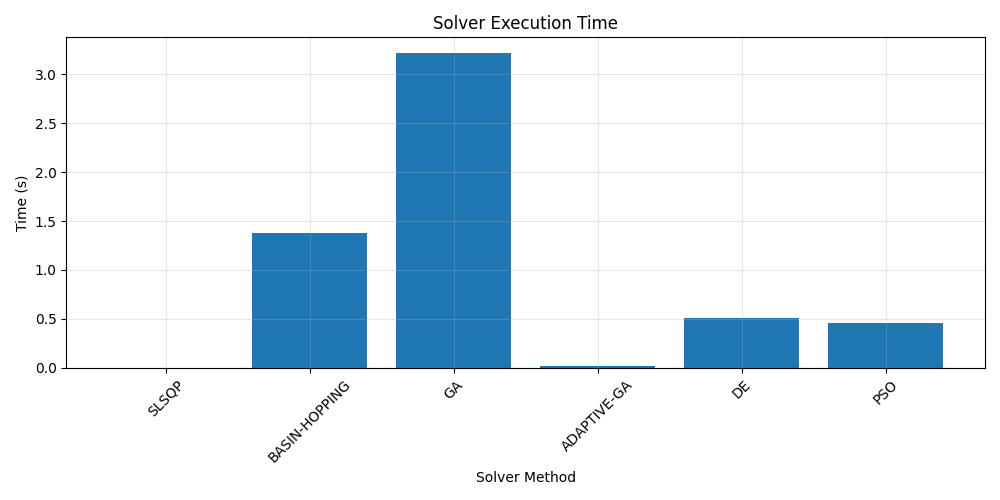
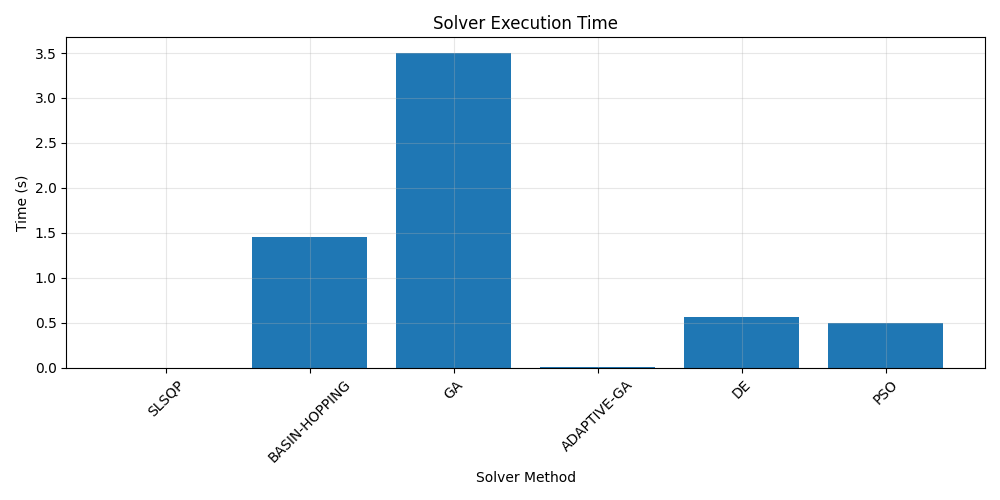
added csv output back in

diff --git a/Stage_Opt/src/reporting/latex.py b/Stage_Opt/src/reporting/latex.py
@@ -1,8 +1,69 @@
 """LaTeX report generation."""
 import os
+import csv
 import json
 from datetime import datetime
 from ..utils.config import OUTPUT_DIR, logger
+
+def write_results_to_csv(results, stages, output_dir=OUTPUT_DIR):
+    """Write optimization results to CSV files."""
+    summary_path = None
+    detailed_path = None
+    
+    try:
+        # Ensure output directory exists
+        os.makedirs(output_dir, exist_ok=True)
+        
+        # Write summary results
+        try:
+            summary_path = os.path.join(output_dir, "optimization_summary.csv")
+            with open(summary_path, 'w', newline='') as f:
+                writer = csv.writer(f)
+                writer.writerow(['Method', 'Payload Fraction', 'Error', 'Time (s)'])
+                for method, result in results.items():
+                    if not all(k in result for k in ['payload_fraction', 'error', 'execution_time']):
+                        logger.warning(f"Skipping incomplete result for {method}")
+                        continue
+                    writer.writerow([
+                        method,
+                        f"{result['payload_fraction']:.4f}",
+                        f"{result['error']:.4e}",
+                        f"{result['execution_time']:.2f}"
+                    ])
+            logger.info(f"Summary results written to {summary_path}")
+        except Exception as e:
+            logger.error(f"Failed to write summary CSV: {str(e)}")
+            summary_path = None
+        
+        # Write detailed stage results
+        try:
+            detailed_path = os.path.join(output_dir, "stage_results.csv")
+            with open(detailed_path, 'w', newline='') as f:
+                writer = csv.writer(f)
+                writer.writerow(['Method', 'Stage', 'Delta-V (m/s)', 'Mass Ratio', 'Contribution (%)'])
+                for method, result in results.items():
+                    if not all(k in result for k in ['dv', 'stage_ratios']):
+                        logger.warning(f"Skipping incomplete stage data for {method}")
+                        continue
+                    total_dv = sum(result['dv'])
+                    for i, (dv, ratio) in enumerate(zip(result['dv'], result['stage_ratios'])):
+                        contribution = (dv / total_dv * 100) if total_dv > 0 else 0
+                        writer.writerow([
+                            method,
+                            i + 1,
+                            f"{dv:.1f}",
+                            f"{ratio:.4f}",
+                            f"{contribution:.1f}"
+                        ])
+            logger.info(f"Stage results written to {detailed_path}")
+        except Exception as e:
+            logger.error(f"Failed to write stage results CSV: {str(e)}")
+            detailed_path = None
+            
+    except Exception as e:
+        logger.error(f"Error in CSV generation: {str(e)}")
+    
+    return summary_path, detailed_path
 
 def generate_report(results, stages, output_dir=OUTPUT_DIR):
     """Generate a LaTeX report with optimization results."""
@@ -16,6 +77,9 @@ def generate_report(results, stages, output_dir=OUTPUT_DIR):
         if not valid_results:
             logger.error("No valid optimization results for report")
             return None
+            
+        # Write results to CSV
+        write_results_to_csv(valid_results, stages, output_dir)
             
         report_path = os.path.join(output_dir, "optimization_report.tex")
         

diff --git a/Stage_Opt/output/optimization_report.tex b/Stage_Opt/output/optimization_report.tex
@@ -83,11 +83,11 @@ The following optimization methods were evaluated:
 Method & {Payload Fraction} & {Error} & {Time (\si{\second})} \\
 \midrule
 SLSQP        & 0.0073 & 0.0000e+00 & 0.00 \\
-BASIN-HOPPING & 0.0074 & 1.8190e-12 & 1.38 \\
-GA           & 0.0073 & 0.0000e+00 & 3.22 \\
+BASIN-HOPPING & 0.0073 & 0.0000e+00 & 1.46 \\
+GA           & 0.0073 & 0.0000e+00 & 3.50 \\
 ADAPTIVE-GA  & 0.0073 & 0.0000e+00 & 0.01 \\
-DE           & 0.0240 & 0.0000e+00 & 0.51 \\
-PSO          & 0.0240 & 0.0000e+00 & 0.45 \\
+DE           & 0.0240 & 0.0000e+00 & 0.56 \\
+PSO          & 0.0240 & 0.0000e+00 & 0.50 \\
 \bottomrule
 \end{tabular}
 \end{table}
@@ -117,11 +117,11 @@ Stage & {$\Delta V$ (\si{\meter\per\second})} & {Mass Ratio ($\lambda$)} & {Cont
 \toprule
 Stage & {$\Delta V$ (\si{\meter\per\second})} & {Mass Ratio ($\lambda$)} & {Contribution (\%)} \\
 \midrule
-1 & 4649.2 & 0.0340 & 50.0 \\
-2 & 4650.8 & 0.2161 & 50.0 \\
+1 & 4651.0 & 0.0339 & 50.0 \\
+2 & 4649.0 & 0.2162 & 50.0 \\
 \midrule
 \multicolumn{2}{l}{Total $\Delta V$:} & \multicolumn{2}{r}{\SI{9300.0}{\meter\per\second}} \\
-\multicolumn{2}{l}{Payload Fraction:} & \multicolumn{2}{r}{0.0074} \\
+\multicolumn{2}{l}{Payload Fraction:} & \multicolumn{2}{r}{0.0073} \\
 \bottomrule
 \end{tabular}
 \end{table}
